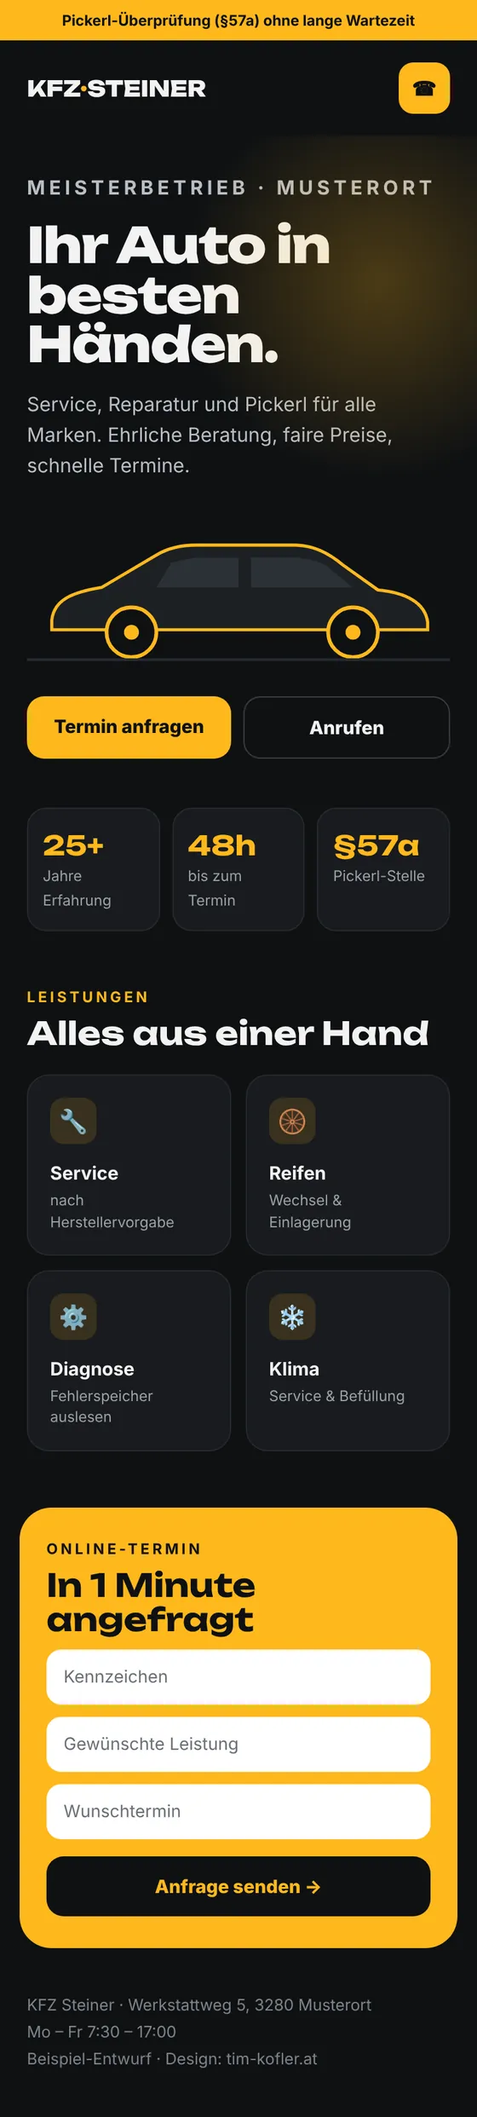
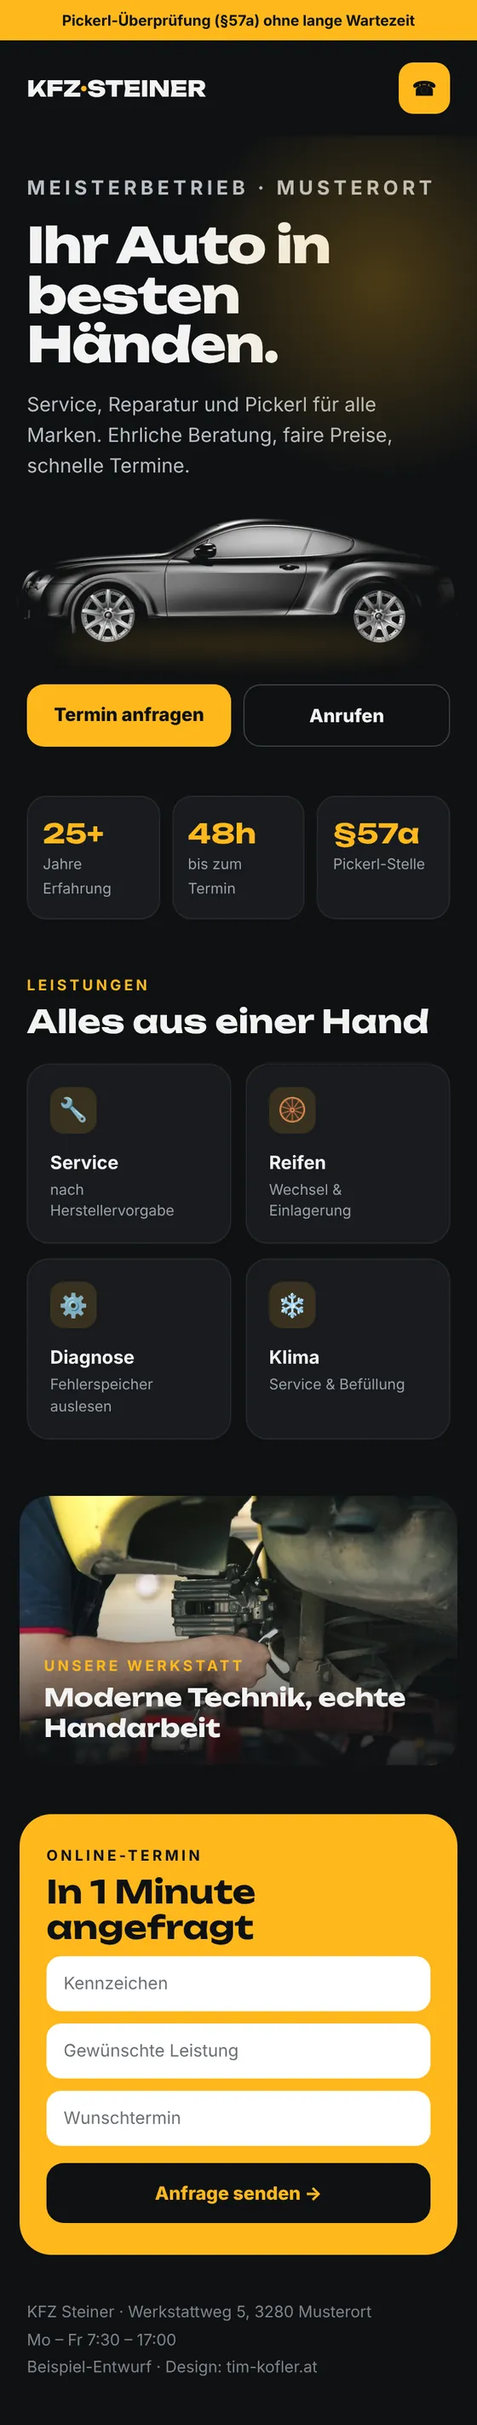
tim-kofler.at: E-Mail-Adresse in FAQ und Formular repariert, echtes Autofoto, neues Beispiel Bäckerei
- Liste der E-Mail-Leistungen überschrieb die Konstante EMAIL, dadurch stand
  Python-Code statt der Adresse in FAQ, Formular, Impressum und Datenschutz
- Autowerkstatt: echtes Foto (CC0) statt gezeichnetem Auto, Werkstatt-Bild ergänzt
- Neues Beispiel Bäckerei Kornfeld mit Fotos (CC0), Sortiment, Vorbestellung

Claude-Session: https://claude.ai/code/session_01NWxR3qpC8d3zFtzdTPbpm8

diff --git a/webdesign/index.html b/webdesign/index.html
@@ -24,7 +24,7 @@
   <link rel="preload" href="/assets/fonts/manrope.woff2" as="font" type="font/woff2" crossorigin>
   <link rel="stylesheet" href="/assets/css/style.css?v=a9c5cddd">
   <link rel="stylesheet" href="/assets/css/tk.css?v=f44745eb">
-  <script type="application/ld+json">{"@context": "https://schema.org", "@graph": [{"@type": "ProfessionalService", "@id": "https://tim-kofler.at/#unternehmen", "name": "Tim Kofler – Webdesign", "alternateName": "Tim Kofler", "url": "https://tim-kofler.at/", "image": "https://tim-kofler.at/assets/img/og-tk.jpg", "email": [["Landingpage", "Eine Seite, ein Ziel", "Für Aktionen, Google-Anzeigen oder neue Angebote. Klar aufgebaut, schnell und mit Anfrage- oder Anmeldeformular."], ["Newsletter", "Anmeldung mit Double-Opt-in", "Direkt auf deiner Seite, mit Einwilligungsnachweis. Du schreibst, Brevo verschickt."], ["Automatisch", "E-Mails, die von selbst laufen", "Bestätigung, Willkommensserie oder Erinnerung: E-Mails, die zur richtigen Zeit rausgehen."], ["Formulare", "Anfragen direkt ins Postfach", "Formulare, die Anfragen in dein Postfach und deine Kontaktliste bringen, inklusive Spamschutz."], ["Datenschutz", "Sauber nach DSGVO", "Brevo ist ein E-Mail-Dienst aus der EU. Formulare ohne Cookies, Abmeldung mit einem Klick."], ["Einrichtung", "Ich richte alles ein", "Brevo-Konto, Listen, Vorlagen im Design deiner Seite und eine kurze Einschulung, damit du selbst loslegen kannst."]], "telephone": "+4367761773118", "address": {"@type": "PostalAddress", "streetAddress": "Lehen 2", "postalCode": "3281", "addressLocality": "Oberndorf an der Melk", "addressRegion": "Niederösterreich", "addressCountry": "AT"}, "areaServed": {"@type": "Country", "name": "Österreich"}, "founder": {"@id": "https://tim-kofler.at/#tim"}, "description": "Webdesign für Selbstständige und kleine Unternehmen: individuell programmierte, schnelle und mobiloptimierte Webseiten ohne Baukasten.", "knowsAbout": ["Webseiten-Erstellung", "Webdesign", "Webentwicklung", "Landingpages", "E-Mail-Marketing", "Newsletter", "Google-Unternehmensprofil"], "hasOfferCatalog": {"@type": "OfferCatalog", "name": "Webdesign-Pakete", "itemListElement": [{"@type": "Offer", "name": "Referenzkunde", "description": "Einfache Seite zum Einführungspreis", "priceCurrency": "EUR", "price": "290", "availability": "https://schema.org/InStock", "areaServed": "AT"}, {"@type": "Offer", "name": "Start", "description": "Eine Seite oder bis zu 3 Unterseiten", "priceCurrency": "EUR", "price": "590", "availability": "https://schema.org/InStock", "areaServed": "AT"}, {"@type": "Offer", "name": "Business", "description": "Bis zu 8 Unterseiten, Kontaktformular, Google-Unternehmensprofil", "priceCurrency": "EUR", "price": "1190", "availability": "https://schema.org/InStock", "areaServed": "AT"}]}}, {"@type": "Person", "@id": "https://tim-kofler.at/#tim", "name": "Tim Kofler", "jobTitle": "Webdesigner und Softwareentwickler", "url": "https://tim-kofler.at/#ueber", "worksFor": {"@id": "https://tim-kofler.at/#unternehmen"}}, {"@type": "WebSite", "@id": "https://tim-kofler.at/#website", "url": "https://tim-kofler.at/", "name": "Tim Kofler – Webdesign", "inLanguage": "de-AT", "publisher": {"@id": "https://tim-kofler.at/#unternehmen"}}, {"@type": "FAQPage", "mainEntity": [{"@type": "Question", "name": "Was kostet eine Webseite?", "acceptedAnswer": {"@type": "Answer", "text": "Das Paket Start (eine Seite oder bis zu drei Unterseiten) gibt es ab 590 €, das Paket Business (bis zu acht Unterseiten) ab 1.190 €. Die laufende Betreuung kostet ab 29 € im Monat. Für die ersten Referenzkunden gibt es eine einfache Seite ab 290 €. Als Kleinunternehmer verrechne ich keine Umsatzsteuer. Den genauen Preis bekommst du nach einem kurzen Gespräch als unverbindliches Angebot."}}, {"@type": "Question", "name": "Was kostet mich die Webseite laufend?", "acceptedAnswer": {"@type": "Answer", "text": "Domain und Webspace laufen auf deinen Namen bei einem Anbieter deiner Wahl, je nach Anbieter etwa 5 bis 10 € im Monat. Die Betreuung durch mich ist freiwillig und kostet ab 29 € im Monat."}}, {"@type": "Question", "name": "Was bedeutet Referenzkunde?", "acceptedAnswer": {"@type": "Answer", "text": "Ich baue gerade meine Referenzen auf. Für eine begrenzte Zahl von Kunden erstelle ich eine einfache Seite ab 290 €. Dafür darf ich die Seite als Referenz zeigen, du gibst mir eine ehrliche Google-Bewertung und im Footer deiner Seite steht ein kleiner Hinweis auf meine Arbeit."}}, {"@type": "Question", "name": "Wie lange dauert es, bis die Seite online ist?", "acceptedAnswer": {"@type": "Answer", "text": "Das hängt vom Umfang und davon ab, wie schnell Texte, Fotos und Logo vorliegen. Einen realistischen Zeitplan besprechen wir beim ersten Gespräch."}}, {"@type": "Question", "name": "Warum kein Baukasten wie Wix oder ein WordPress-Template?", "acceptedAnswer": {"@type": "Answer", "text": "Eine individuell programmierte Seite lädt nur, was sie wirklich braucht. Sie ist schnell, schlank und sicher, weil keine Plugins laufend aktualisiert werden müssen. Und das Design gibt es genau so nur einmal."}}, {"@type": "Question", "name": "Arbeitest du nur in Niederösterreich?", "acceptedAnswer": {"@type": "Answer", "text": "Nein. Ich arbeite für Kunden in ganz Österreich. Besprechungen laufen per Telefon, E-Mail oder Videocall."}}, {"@type": "Question", "name": "Wo liegt die Webseite dann?", "acceptedAnswer": {"@type": "Answer", "text": "Auf deinem eigenen Webspace bei einem Anbieter deiner Wahl. Wenn du noch keinen hast, helfe ich dir bei der Auswahl und Einrichtung. Die Seite gehört dir."}}, {"@type": "Question", "name": "Bekomme ich auch Impressum und Datenschutzerklärung?", "acceptedAnswer": {"@type": "Answer", "text": "Ja, als Grundgerüst, das auf deine Seite abgestimmt ist. Es ist eine Vorlage und ersetzt keine Rechtsberatung. Die Angaben zu deinem Unternehmen musst du selbst prüfen."}}, {"@type": "Question", "name": "Kann die Seite später erweitert werden?", "acceptedAnswer": {"@type": "Answer", "text": "Ja. Neue Unterseiten, Texte oder Funktionen lassen sich jederzeit ergänzen."}}, {"@type": "Question", "name": "Machst du auch Landingpages und Newsletter?", "acceptedAnswer": {"@type": "Answer", "text": "Ja. Ich baue Landingpages für Aktionen oder Anzeigen, Newsletter-Anmeldungen mit Double-Opt-in und automatische E-Mails, zum Beispiel eine Willkommensserie. Der Versand läuft über Brevo, einen E-Mail-Dienst aus der EU. Den Preis bekommst du je nach Umfang als Angebot."}}]}]}</script>
+  <script type="application/ld+json">{"@context": "https://schema.org", "@graph": [{"@type": "ProfessionalService", "@id": "https://tim-kofler.at/#unternehmen", "name": "Tim Kofler – Webdesign", "alternateName": "Tim Kofler", "url": "https://tim-kofler.at/", "image": "https://tim-kofler.at/assets/img/og-tk.jpg", "email": "tk@crypto-x.at", "telephone": "+4367761773118", "address": {"@type": "PostalAddress", "streetAddress": "Lehen 2", "postalCode": "3281", "addressLocality": "Oberndorf an der Melk", "addressRegion": "Niederösterreich", "addressCountry": "AT"}, "areaServed": {"@type": "Country", "name": "Österreich"}, "founder": {"@id": "https://tim-kofler.at/#tim"}, "description": "Webdesign für Selbstständige und kleine Unternehmen: individuell programmierte, schnelle und mobiloptimierte Webseiten ohne Baukasten.", "knowsAbout": ["Webseiten-Erstellung", "Webdesign", "Webentwicklung", "Landingpages", "E-Mail-Marketing", "Newsletter", "Google-Unternehmensprofil"], "hasOfferCatalog": {"@type": "OfferCatalog", "name": "Webdesign-Pakete", "itemListElement": [{"@type": "Offer", "name": "Referenzkunde", "description": "Einfache Seite zum Einführungspreis", "priceCurrency": "EUR", "price": "290", "availability": "https://schema.org/InStock", "areaServed": "AT"}, {"@type": "Offer", "name": "Start", "description": "Eine Seite oder bis zu 3 Unterseiten", "priceCurrency": "EUR", "price": "590", "availability": "https://schema.org/InStock", "areaServed": "AT"}, {"@type": "Offer", "name": "Business", "description": "Bis zu 8 Unterseiten, Kontaktformular, Google-Unternehmensprofil", "priceCurrency": "EUR", "price": "1190", "availability": "https://schema.org/InStock", "areaServed": "AT"}]}}, {"@type": "Person", "@id": "https://tim-kofler.at/#tim", "name": "Tim Kofler", "jobTitle": "Webdesigner und Softwareentwickler", "url": "https://tim-kofler.at/#ueber", "worksFor": {"@id": "https://tim-kofler.at/#unternehmen"}}, {"@type": "WebSite", "@id": "https://tim-kofler.at/#website", "url": "https://tim-kofler.at/", "name": "Tim Kofler – Webdesign", "inLanguage": "de-AT", "publisher": {"@id": "https://tim-kofler.at/#unternehmen"}}, {"@type": "FAQPage", "mainEntity": [{"@type": "Question", "name": "Was kostet eine Webseite?", "acceptedAnswer": {"@type": "Answer", "text": "Das Paket Start (eine Seite oder bis zu drei Unterseiten) gibt es ab 590 €, das Paket Business (bis zu acht Unterseiten) ab 1.190 €. Die laufende Betreuung kostet ab 29 € im Monat. Für die ersten Referenzkunden gibt es eine einfache Seite ab 290 €. Als Kleinunternehmer verrechne ich keine Umsatzsteuer. Den genauen Preis bekommst du nach einem kurzen Gespräch als unverbindliches Angebot."}}, {"@type": "Question", "name": "Was kostet mich die Webseite laufend?", "acceptedAnswer": {"@type": "Answer", "text": "Domain und Webspace laufen auf deinen Namen bei einem Anbieter deiner Wahl, je nach Anbieter etwa 5 bis 10 € im Monat. Die Betreuung durch mich ist freiwillig und kostet ab 29 € im Monat."}}, {"@type": "Question", "name": "Was bedeutet Referenzkunde?", "acceptedAnswer": {"@type": "Answer", "text": "Ich baue gerade meine Referenzen auf. Für eine begrenzte Zahl von Kunden erstelle ich eine einfache Seite ab 290 €. Dafür darf ich die Seite als Referenz zeigen, du gibst mir eine ehrliche Google-Bewertung und im Footer deiner Seite steht ein kleiner Hinweis auf meine Arbeit."}}, {"@type": "Question", "name": "Wie lange dauert es, bis die Seite online ist?", "acceptedAnswer": {"@type": "Answer", "text": "Das hängt vom Umfang und davon ab, wie schnell Texte, Fotos und Logo vorliegen. Einen realistischen Zeitplan besprechen wir beim ersten Gespräch."}}, {"@type": "Question", "name": "Warum kein Baukasten wie Wix oder ein WordPress-Template?", "acceptedAnswer": {"@type": "Answer", "text": "Eine individuell programmierte Seite lädt nur, was sie wirklich braucht. Sie ist schnell, schlank und sicher, weil keine Plugins laufend aktualisiert werden müssen. Und das Design gibt es genau so nur einmal."}}, {"@type": "Question", "name": "Arbeitest du nur in Niederösterreich?", "acceptedAnswer": {"@type": "Answer", "text": "Nein. Ich arbeite für Kunden in ganz Österreich. Besprechungen laufen per Telefon, E-Mail oder Videocall."}}, {"@type": "Question", "name": "Wo liegt die Webseite dann?", "acceptedAnswer": {"@type": "Answer", "text": "Auf deinem eigenen Webspace bei einem Anbieter deiner Wahl. Wenn du noch keinen hast, helfe ich dir bei der Auswahl und Einrichtung. Die Seite gehört dir."}}, {"@type": "Question", "name": "Bekomme ich auch Impressum und Datenschutzerklärung?", "acceptedAnswer": {"@type": "Answer", "text": "Ja, als Grundgerüst, das auf deine Seite abgestimmt ist. Es ist eine Vorlage und ersetzt keine Rechtsberatung. Die Angaben zu deinem Unternehmen musst du selbst prüfen."}}, {"@type": "Question", "name": "Kann die Seite später erweitert werden?", "acceptedAnswer": {"@type": "Answer", "text": "Ja. Neue Unterseiten, Texte oder Funktionen lassen sich jederzeit ergänzen."}}, {"@type": "Question", "name": "Machst du auch Landingpages und Newsletter?", "acceptedAnswer": {"@type": "Answer", "text": "Ja. Ich baue Landingpages für Aktionen oder Anzeigen, Newsletter-Anmeldungen mit Double-Opt-in und automatische E-Mails, zum Beispiel eine Willkommensserie. Der Versand läuft über Brevo, einen E-Mail-Dienst aus der EU. Den Preis bekommst du je nach Umfang als Angebot."}}]}]}</script>
 </head>
 <body>
 
@@ -116,7 +116,7 @@
         <span class="label"><b>[02]</b> Beispiele</span>
         <h2>So könnte <span class="lime">deine Seite</span> aussehen.</h2>
       </div>
-      <p>Vier Beispiel-Entwürfe für typische Branchen. Zieh die Handys mit der Maus oder dem Finger zur Seite, die Seiten scrollen von selbst.</p>
+      <p>Fünf Beispiel-Entwürfe für typische Branchen. Zieh die Handys mit der Maus oder dem Finger zur Seite, die Seiten scrollen von selbst.</p>
     </div>
   </div>
   <div class="tk-car" data-car tabindex="0" role="region" aria-roledescription="Karussell" aria-label="Beispiel-Designs, mit Pfeiltasten wechseln">
@@ -130,8 +130,12 @@
         <figcaption><b>Café</b><span>Speisekarte, Öffnungszeiten, Reservierung</span></figcaption>
       </figure>
       <figure class="tk-car__item">
-        <div class="tk-phone"><div class="tk-phone__screen"><img src="/assets/img/demos/werkstatt.webp" width="560" height="2484" alt="Beispiel-Design für Autowerkstatt: KFZ Steiner mit Termin-Anfrage, Leistungen, Pickerl" loading="lazy" draggable="false" style="--d:14s"></div></div>
+        <div class="tk-phone"><div class="tk-phone__screen"><img src="/assets/img/demos/werkstatt.webp" width="560" height="2845" alt="Beispiel-Design für Autowerkstatt: KFZ Steiner mit Termin-Anfrage, Leistungen, Pickerl" loading="lazy" draggable="false" style="--d:15s"></div></div>
         <figcaption><b>Autowerkstatt</b><span>Termin-Anfrage, Leistungen, Pickerl</span></figcaption>
+      </figure>
+      <figure class="tk-car__item">
+        <div class="tk-phone"><div class="tk-phone__screen"><img src="/assets/img/demos/baeckerei.webp" width="560" height="3264" alt="Beispiel-Design für Bäckerei: Bäckerei Kornfeld mit Sortiment, Vorbestellung, Öffnungszeiten" loading="lazy" draggable="false" style="--d:17s"></div></div>
+        <figcaption><b>Bäckerei</b><span>Sortiment, Vorbestellung, Öffnungszeiten</span></figcaption>
       </figure>
       <figure class="tk-car__item">
         <div class="tk-phone"><div class="tk-phone__screen"><img src="/assets/img/demos/massage.webp" width="560" height="2856" alt="Beispiel-Design für Heilmasseur: Praxis Sonnfeld mit Behandlungen, Preise, Online-Buchung" loading="lazy" draggable="false" style="--d:16s"></div></div>
@@ -150,7 +154,7 @@
   </div>
   <div class="container tk-car__ctrl">
     <button class="tk-car__btn" data-dir="-1" aria-label="Vorheriges Beispiel">←</button>
-    <div class="tk-car__dots"><button class="tk-car__dot" aria-label="Beispiel 1"></button><button class="tk-car__dot" aria-label="Beispiel 2"></button><button class="tk-car__dot" aria-label="Beispiel 3"></button><button class="tk-car__dot" aria-label="Beispiel 4"></button><button class="tk-car__dot" aria-label="Beispiel 5"></button></div>
+    <div class="tk-car__dots"><button class="tk-car__dot" aria-label="Beispiel 1"></button><button class="tk-car__dot" aria-label="Beispiel 2"></button><button class="tk-car__dot" aria-label="Beispiel 3"></button><button class="tk-car__dot" aria-label="Beispiel 4"></button><button class="tk-car__dot" aria-label="Beispiel 5"></button><button class="tk-car__dot" aria-label="Beispiel 6"></button></div>
     <button class="tk-car__btn" data-dir="1" aria-label="Nächstes Beispiel">→</button>
   </div>
   <div class="container"><p class="note-legal tk-car__note">Beispiel-Entwürfe mit erfundenen Namen und Musteradressen. Es handelt sich nicht um echte Kundenprojekte.</p></div>
@@ -348,7 +352,7 @@
   <label class="form__check"><input type="checkbox" name="datenschutz" value="ja" required><span>Ich habe die <a href="/datenschutz/">Datenschutzerklärung</a> gelesen. Meine Angaben werden zur Bearbeitung der Anfrage gespeichert und bei Brevo verarbeitet.</span></label>
   <button class="btn" type="submit">Unverbindlich anfragen <svg viewBox="0 0 24 24" fill="none" stroke="currentColor" stroke-width="2" stroke-linecap="round" stroke-linejoin="round" aria-hidden="true"><path d="M5 12h14M13 6l6 6-6 6"/></svg></button>
   <p class="form__status" role="status" aria-live="polite" hidden></p>
-  <p class="form__alt">Lieber direkt? <a href="mailto:[('Landingpage', 'Eine Seite, ein Ziel', 'Für Aktionen, Google-Anzeigen oder neue Angebote. Klar aufgebaut, schnell und mit Anfrage- oder Anmeldeformular.'), ('Newsletter', 'Anmeldung mit Double-Opt-in', 'Direkt auf deiner Seite, mit Einwilligungsnachweis. Du schreibst, Brevo verschickt.'), ('Automatisch', 'E-Mails, die von selbst laufen', 'Bestätigung, Willkommensserie oder Erinnerung: E-Mails, die zur richtigen Zeit rausgehen.'), ('Formulare', 'Anfragen direkt ins Postfach', 'Formulare, die Anfragen in dein Postfach und deine Kontaktliste bringen, inklusive Spamschutz.'), ('Datenschutz', 'Sauber nach DSGVO', 'Brevo ist ein E-Mail-Dienst aus der EU. Formulare ohne Cookies, Abmeldung mit einem Klick.'), ('Einrichtung', 'Ich richte alles ein', 'Brevo-Konto, Listen, Vorlagen im Design deiner Seite und eine kurze Einschulung, damit du selbst loslegen kannst.')]">[('Landingpage', 'Eine Seite, ein Ziel', 'Für Aktionen, Google-Anzeigen oder neue Angebote. Klar aufgebaut, schnell und mit Anfrage- oder Anmeldeformular.'), ('Newsletter', 'Anmeldung mit Double-Opt-in', 'Direkt auf deiner Seite, mit Einwilligungsnachweis. Du schreibst, Brevo verschickt.'), ('Automatisch', 'E-Mails, die von selbst laufen', 'Bestätigung, Willkommensserie oder Erinnerung: E-Mails, die zur richtigen Zeit rausgehen.'), ('Formulare', 'Anfragen direkt ins Postfach', 'Formulare, die Anfragen in dein Postfach und deine Kontaktliste bringen, inklusive Spamschutz.'), ('Datenschutz', 'Sauber nach DSGVO', 'Brevo ist ein E-Mail-Dienst aus der EU. Formulare ohne Cookies, Abmeldung mit einem Klick.'), ('Einrichtung', 'Ich richte alles ein', 'Brevo-Konto, Listen, Vorlagen im Design deiner Seite und eine kurze Einschulung, damit du selbst loslegen kannst.')]</a> oder <a href="tel:+4367761773118">+43 677 61773118</a></p>
+  <p class="form__alt">Lieber direkt? <a href="mailto:tk@crypto-x.at">tk@crypto-x.at</a> oder <a href="tel:+4367761773118">+43 677 61773118</a></p>
 </form>
     </div>
     <aside class="form-aside">
@@ -370,7 +374,7 @@
         <span class="label"><b>[09]</b> Häufige Fragen</span>
         <h2>Gut zu wissen.</h2>
       </div>
-      <p>Deine Frage ist nicht dabei? Schreib mir einfach an <a href="mailto:[('Landingpage', 'Eine Seite, ein Ziel', 'Für Aktionen, Google-Anzeigen oder neue Angebote. Klar aufgebaut, schnell und mit Anfrage- oder Anmeldeformular.'), ('Newsletter', 'Anmeldung mit Double-Opt-in', 'Direkt auf deiner Seite, mit Einwilligungsnachweis. Du schreibst, Brevo verschickt.'), ('Automatisch', 'E-Mails, die von selbst laufen', 'Bestätigung, Willkommensserie oder Erinnerung: E-Mails, die zur richtigen Zeit rausgehen.'), ('Formulare', 'Anfragen direkt ins Postfach', 'Formulare, die Anfragen in dein Postfach und deine Kontaktliste bringen, inklusive Spamschutz.'), ('Datenschutz', 'Sauber nach DSGVO', 'Brevo ist ein E-Mail-Dienst aus der EU. Formulare ohne Cookies, Abmeldung mit einem Klick.'), ('Einrichtung', 'Ich richte alles ein', 'Brevo-Konto, Listen, Vorlagen im Design deiner Seite und eine kurze Einschulung, damit du selbst loslegen kannst.')]">[('Landingpage', 'Eine Seite, ein Ziel', 'Für Aktionen, Google-Anzeigen oder neue Angebote. Klar aufgebaut, schnell und mit Anfrage- oder Anmeldeformular.'), ('Newsletter', 'Anmeldung mit Double-Opt-in', 'Direkt auf deiner Seite, mit Einwilligungsnachweis. Du schreibst, Brevo verschickt.'), ('Automatisch', 'E-Mails, die von selbst laufen', 'Bestätigung, Willkommensserie oder Erinnerung: E-Mails, die zur richtigen Zeit rausgehen.'), ('Formulare', 'Anfragen direkt ins Postfach', 'Formulare, die Anfragen in dein Postfach und deine Kontaktliste bringen, inklusive Spamschutz.'), ('Datenschutz', 'Sauber nach DSGVO', 'Brevo ist ein E-Mail-Dienst aus der EU. Formulare ohne Cookies, Abmeldung mit einem Klick.'), ('Einrichtung', 'Ich richte alles ein', 'Brevo-Konto, Listen, Vorlagen im Design deiner Seite und eine kurze Einschulung, damit du selbst loslegen kannst.')]</a>.</p>
+      <p>Deine Frage ist nicht dabei? Schreib mir einfach an <a href="mailto:tk@crypto-x.at">tk@crypto-x.at</a>.</p>
     </div>
     <div class="faq">
       <details class="faq__item">

diff --git a/webdesign/datenschutz/index.html b/webdesign/datenschutz/index.html
@@ -64,7 +64,7 @@
 
     <h2>1. Verantwortlicher</h2>
     <address><strong>Tim Kofler</strong> (Einzelunternehmer), Lehen 2, 3281 Oberndorf an der Melk, Österreich<br>
-    E-Mail: <a href="mailto:[('Landingpage', 'Eine Seite, ein Ziel', 'Für Aktionen, Google-Anzeigen oder neue Angebote. Klar aufgebaut, schnell und mit Anfrage- oder Anmeldeformular.'), ('Newsletter', 'Anmeldung mit Double-Opt-in', 'Direkt auf deiner Seite, mit Einwilligungsnachweis. Du schreibst, Brevo verschickt.'), ('Automatisch', 'E-Mails, die von selbst laufen', 'Bestätigung, Willkommensserie oder Erinnerung: E-Mails, die zur richtigen Zeit rausgehen.'), ('Formulare', 'Anfragen direkt ins Postfach', 'Formulare, die Anfragen in dein Postfach und deine Kontaktliste bringen, inklusive Spamschutz.'), ('Datenschutz', 'Sauber nach DSGVO', 'Brevo ist ein E-Mail-Dienst aus der EU. Formulare ohne Cookies, Abmeldung mit einem Klick.'), ('Einrichtung', 'Ich richte alles ein', 'Brevo-Konto, Listen, Vorlagen im Design deiner Seite und eine kurze Einschulung, damit du selbst loslegen kannst.')]">[('Landingpage', 'Eine Seite, ein Ziel', 'Für Aktionen, Google-Anzeigen oder neue Angebote. Klar aufgebaut, schnell und mit Anfrage- oder Anmeldeformular.'), ('Newsletter', 'Anmeldung mit Double-Opt-in', 'Direkt auf deiner Seite, mit Einwilligungsnachweis. Du schreibst, Brevo verschickt.'), ('Automatisch', 'E-Mails, die von selbst laufen', 'Bestätigung, Willkommensserie oder Erinnerung: E-Mails, die zur richtigen Zeit rausgehen.'), ('Formulare', 'Anfragen direkt ins Postfach', 'Formulare, die Anfragen in dein Postfach und deine Kontaktliste bringen, inklusive Spamschutz.'), ('Datenschutz', 'Sauber nach DSGVO', 'Brevo ist ein E-Mail-Dienst aus der EU. Formulare ohne Cookies, Abmeldung mit einem Klick.'), ('Einrichtung', 'Ich richte alles ein', 'Brevo-Konto, Listen, Vorlagen im Design deiner Seite und eine kurze Einschulung, damit du selbst loslegen kannst.')]</a>, Telefon: <a href="tel:+4367761773118">+43 677 61773118</a></address>
+    E-Mail: <a href="mailto:tk@crypto-x.at">tk@crypto-x.at</a>, Telefon: <a href="tel:+4367761773118">+43 677 61773118</a></address>
 
     <h2>2. Hosting auf unserem Webspace</h2>
     <p>Diese Webseite liegt auf einem Webspace bei ALL-INKL.COM – Neue Medien Münnich in Deutschland. Der Anbieter verarbeitet die beim Aufruf anfallenden Daten in unserem Auftrag (Auftragsverarbeitung nach Art. 28 DSGVO).</p>
@@ -95,7 +95,7 @@
     <p>Bei der Erstellung dieser Webseite wurden KI-Werkzeuge unterstützend eingesetzt (Programmierung, Textentwürfe). Auf dieser Webseite kommt kein KI-System zum Einsatz, das mit dir interagiert oder deine Daten verarbeitet. Der Antwort-Assistent unten rechts arbeitet mit fest vorgefertigten Antworten direkt in deinem Browser. Was du dort eintippst, wird weder gespeichert noch an uns oder Dritte übertragen.</p>
 
     <h2>9. Deine Rechte</h2>
-    <p>Du hast das Recht auf Auskunft, Berichtigung, Löschung, Einschränkung der Verarbeitung, Datenübertragbarkeit und Widerspruch (Art. 15 bis 21 DSGVO). Dafür genügt eine E-Mail an <a href="mailto:[('Landingpage', 'Eine Seite, ein Ziel', 'Für Aktionen, Google-Anzeigen oder neue Angebote. Klar aufgebaut, schnell und mit Anfrage- oder Anmeldeformular.'), ('Newsletter', 'Anmeldung mit Double-Opt-in', 'Direkt auf deiner Seite, mit Einwilligungsnachweis. Du schreibst, Brevo verschickt.'), ('Automatisch', 'E-Mails, die von selbst laufen', 'Bestätigung, Willkommensserie oder Erinnerung: E-Mails, die zur richtigen Zeit rausgehen.'), ('Formulare', 'Anfragen direkt ins Postfach', 'Formulare, die Anfragen in dein Postfach und deine Kontaktliste bringen, inklusive Spamschutz.'), ('Datenschutz', 'Sauber nach DSGVO', 'Brevo ist ein E-Mail-Dienst aus der EU. Formulare ohne Cookies, Abmeldung mit einem Klick.'), ('Einrichtung', 'Ich richte alles ein', 'Brevo-Konto, Listen, Vorlagen im Design deiner Seite und eine kurze Einschulung, damit du selbst loslegen kannst.')]">[('Landingpage', 'Eine Seite, ein Ziel', 'Für Aktionen, Google-Anzeigen oder neue Angebote. Klar aufgebaut, schnell und mit Anfrage- oder Anmeldeformular.'), ('Newsletter', 'Anmeldung mit Double-Opt-in', 'Direkt auf deiner Seite, mit Einwilligungsnachweis. Du schreibst, Brevo verschickt.'), ('Automatisch', 'E-Mails, die von selbst laufen', 'Bestätigung, Willkommensserie oder Erinnerung: E-Mails, die zur richtigen Zeit rausgehen.'), ('Formulare', 'Anfragen direkt ins Postfach', 'Formulare, die Anfragen in dein Postfach und deine Kontaktliste bringen, inklusive Spamschutz.'), ('Datenschutz', 'Sauber nach DSGVO', 'Brevo ist ein E-Mail-Dienst aus der EU. Formulare ohne Cookies, Abmeldung mit einem Klick.'), ('Einrichtung', 'Ich richte alles ein', 'Brevo-Konto, Listen, Vorlagen im Design deiner Seite und eine kurze Einschulung, damit du selbst loslegen kannst.')]</a>. Außerdem hast du das Recht auf Beschwerde bei der Österreichischen Datenschutzbehörde, <a href="https://www.dsb.gv.at" target="_blank" rel="noopener">www.dsb.gv.at</a>.</p>
+    <p>Du hast das Recht auf Auskunft, Berichtigung, Löschung, Einschränkung der Verarbeitung, Datenübertragbarkeit und Widerspruch (Art. 15 bis 21 DSGVO). Dafür genügt eine E-Mail an <a href="mailto:tk@crypto-x.at">tk@crypto-x.at</a>. Außerdem hast du das Recht auf Beschwerde bei der Österreichischen Datenschutzbehörde, <a href="https://www.dsb.gv.at" target="_blank" rel="noopener">www.dsb.gv.at</a>.</p>
 
     <h2>10. Datensicherheit</h2>
     <p>Diese Webseite wird ausschließlich verschlüsselt über HTTPS (TLS) ausgeliefert. Aufrufe über unverschlüsseltes HTTP werden automatisch umgeleitet.</p>

diff --git a/webdesign/impressum/index.html b/webdesign/impressum/index.html
@@ -69,7 +69,7 @@
       3281 Oberndorf an der Melk<br>
       Österreich
     </address>
-    <p>E-Mail: <a href="mailto:[('Landingpage', 'Eine Seite, ein Ziel', 'Für Aktionen, Google-Anzeigen oder neue Angebote. Klar aufgebaut, schnell und mit Anfrage- oder Anmeldeformular.'), ('Newsletter', 'Anmeldung mit Double-Opt-in', 'Direkt auf deiner Seite, mit Einwilligungsnachweis. Du schreibst, Brevo verschickt.'), ('Automatisch', 'E-Mails, die von selbst laufen', 'Bestätigung, Willkommensserie oder Erinnerung: E-Mails, die zur richtigen Zeit rausgehen.'), ('Formulare', 'Anfragen direkt ins Postfach', 'Formulare, die Anfragen in dein Postfach und deine Kontaktliste bringen, inklusive Spamschutz.'), ('Datenschutz', 'Sauber nach DSGVO', 'Brevo ist ein E-Mail-Dienst aus der EU. Formulare ohne Cookies, Abmeldung mit einem Klick.'), ('Einrichtung', 'Ich richte alles ein', 'Brevo-Konto, Listen, Vorlagen im Design deiner Seite und eine kurze Einschulung, damit du selbst loslegen kannst.')]">[('Landingpage', 'Eine Seite, ein Ziel', 'Für Aktionen, Google-Anzeigen oder neue Angebote. Klar aufgebaut, schnell und mit Anfrage- oder Anmeldeformular.'), ('Newsletter', 'Anmeldung mit Double-Opt-in', 'Direkt auf deiner Seite, mit Einwilligungsnachweis. Du schreibst, Brevo verschickt.'), ('Automatisch', 'E-Mails, die von selbst laufen', 'Bestätigung, Willkommensserie oder Erinnerung: E-Mails, die zur richtigen Zeit rausgehen.'), ('Formulare', 'Anfragen direkt ins Postfach', 'Formulare, die Anfragen in dein Postfach und deine Kontaktliste bringen, inklusive Spamschutz.'), ('Datenschutz', 'Sauber nach DSGVO', 'Brevo ist ein E-Mail-Dienst aus der EU. Formulare ohne Cookies, Abmeldung mit einem Klick.'), ('Einrichtung', 'Ich richte alles ein', 'Brevo-Konto, Listen, Vorlagen im Design deiner Seite und eine kurze Einschulung, damit du selbst loslegen kannst.')]</a><br>Telefon: <a href="tel:+4367761773118">+43 677 61773118</a></p>
+    <p>E-Mail: <a href="mailto:tk@crypto-x.at">tk@crypto-x.at</a><br>Telefon: <a href="tel:+4367761773118">+43 677 61773118</a></p>
 
     <h2>Unternehmensdaten</h2>
     <ul>
